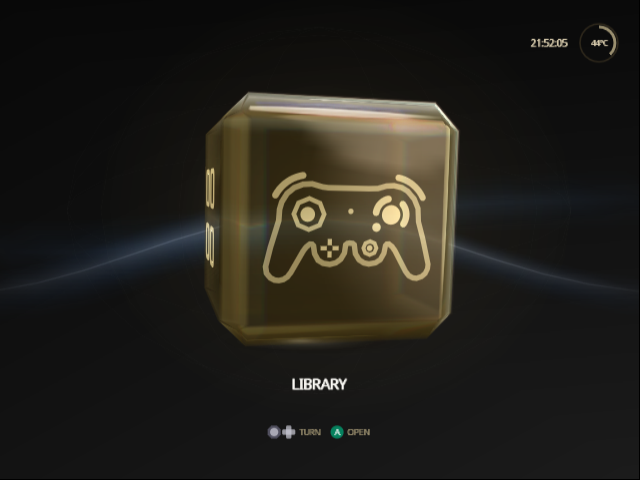
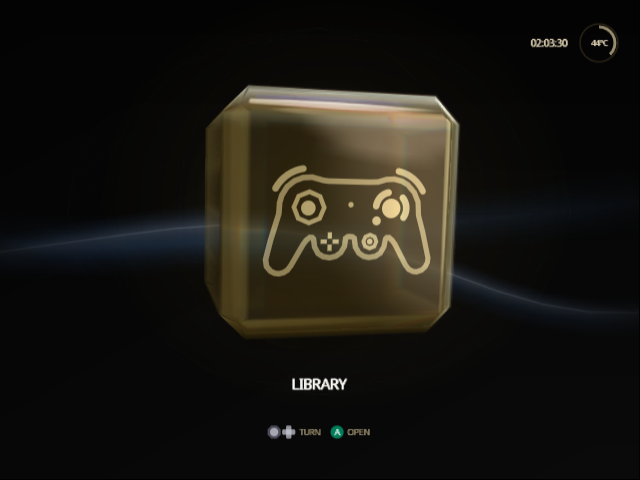
Docs: pictures re-recorded for 2.2, and the v2.2.0 release notes
Every picture that shows the Home cube, Setup > Console or a Jet Black
backdrop is re-recorded in Dolphin on 37bf751: at rest the cube's side
faces show clear glass and the glow spot under it is gone, the Console
page has 14 rows, and Jet Black's backdrop is nearly black.

The README describes Backdrop and Wave Color, with their picture, and
where the time sits and how Clock moves or hides it. CHANGELOG.md names
the release: Unreleased becomes v2.2.0.

diff --git a/README.md b/README.md
@@ -147,6 +147,15 @@ move through the list. B keeps the color you had; A chooses the one you are on.
   <img alt="Settings, Setup, Console: A on Menu Color opens a list of the eight colors with Indigo marked Current. Moving down, the whole screen turns Azure, Emerald, Gold, Spice, Crimson, Rose and Jet Black in turn; moving back up to Emerald and pressing A chooses it, and the row reads Emerald." src="docs/screenshots/color-menu.png" width="640">
 </p>
 
+Backdrop Color and Wave Color, under Menu Color, give the backdrop behind the
+cube and the waves in front of it a color of their own, or let them follow
+Menu Color as before: a Gold cube can sit over Azure waves on a Jet Black
+backdrop.
+
+<p align="center">
+  <img alt="The Home cube in Gold on its Library face, over a Jet Black backdrop with Azure waves drifting behind it." src="docs/screenshots/layer-colors.png" width="640">
+</p>
+
 **Widescreen TVs get the whole screen.** Setup › Display › Menu Widescreen
 draws Indigo for a TV set to 16:9: the background and its waves reach both
 edges, and the cube, the text and every menu keep their shape in the middle.
@@ -156,7 +165,9 @@ Games have their own setting, Force Widescreen.
 row per face (Library Icon, Source Icon, Settings Icon and System Icon), and
 each face has four icons of its own. Library has Controller, Books, Covers
 and Play; Source has Hub, Disc, SD Card and Folder; Settings has Sliders,
-Gear, Toggles and Dial; System has Clock, Info, Power and Chip.
+Gear, Toggles and Dial; System has Clock, Info, Power and Chip. The time
+and the temperature sit in the top right corner; Setup › Console › Clock
+moves them to the top left or hides them.
 
 **Memory Cards moves your saves, like the GameCube's own screen.** System ›
 Memory Cards lists the saves on the cards in Slot A and Slot B, each with its

diff --git a/CHANGELOG.md b/CHANGELOG.md
@@ -4,7 +4,12 @@ Versions follow [semantic versioning](https://semver.org/). Each release is a
 `vX.Y.Z` tag on `main`, and a release candidate before it is a `vX.Y.Z-rc.N`
 tag on `beta`. The newest changes are at the top until their release is named.
 
-## Unreleased
+## v2.2.0 — Backdrop and Wave Color, a Clock setting and a cleaner cube
+
+The backdrop and the waves can each have a color of their own, the clock can
+move to the top left or go, and the cube draws cleaner on a console: no glow
+spot under it, smoother edges, and side faces that show clear glass at rest
+instead of broken icons. A Jet Black backdrop is nearly black now.
 
 ### New
 
